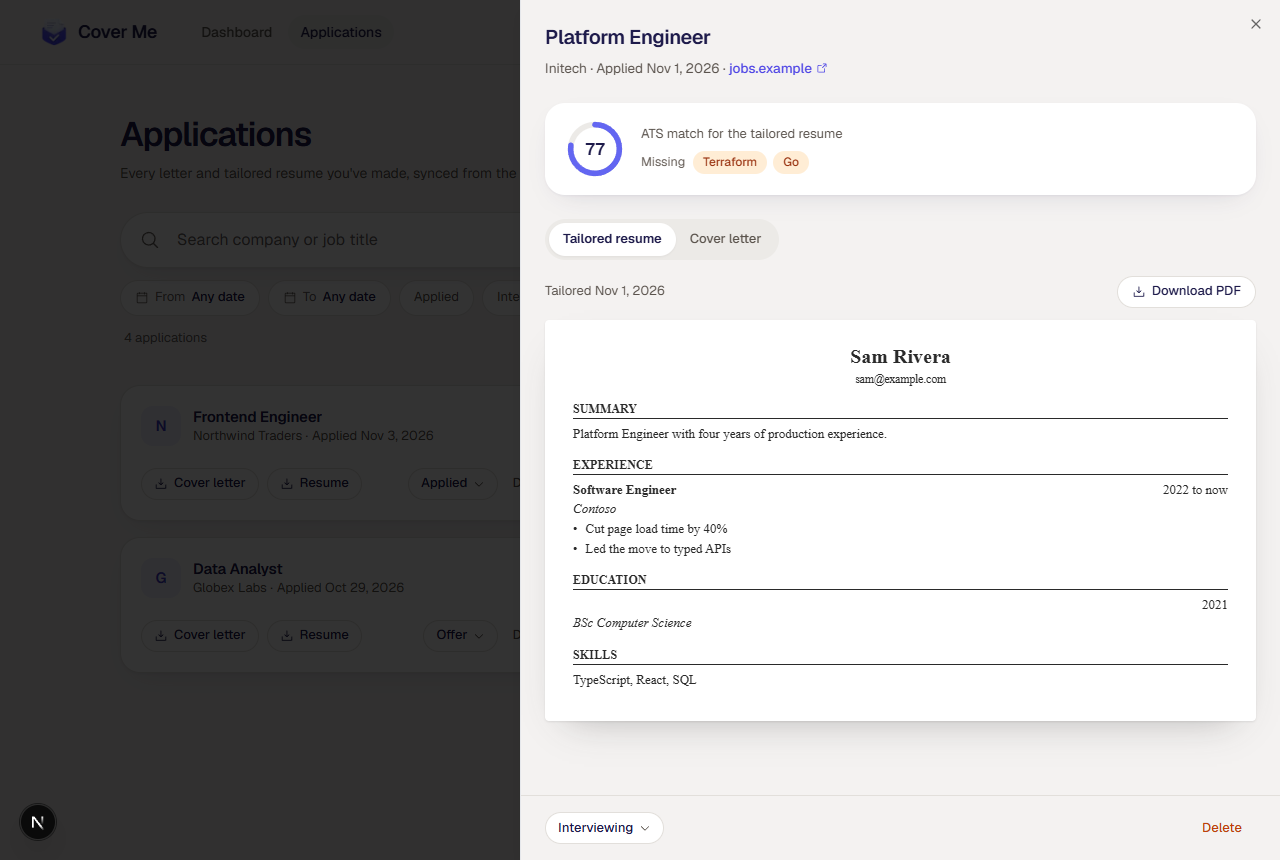
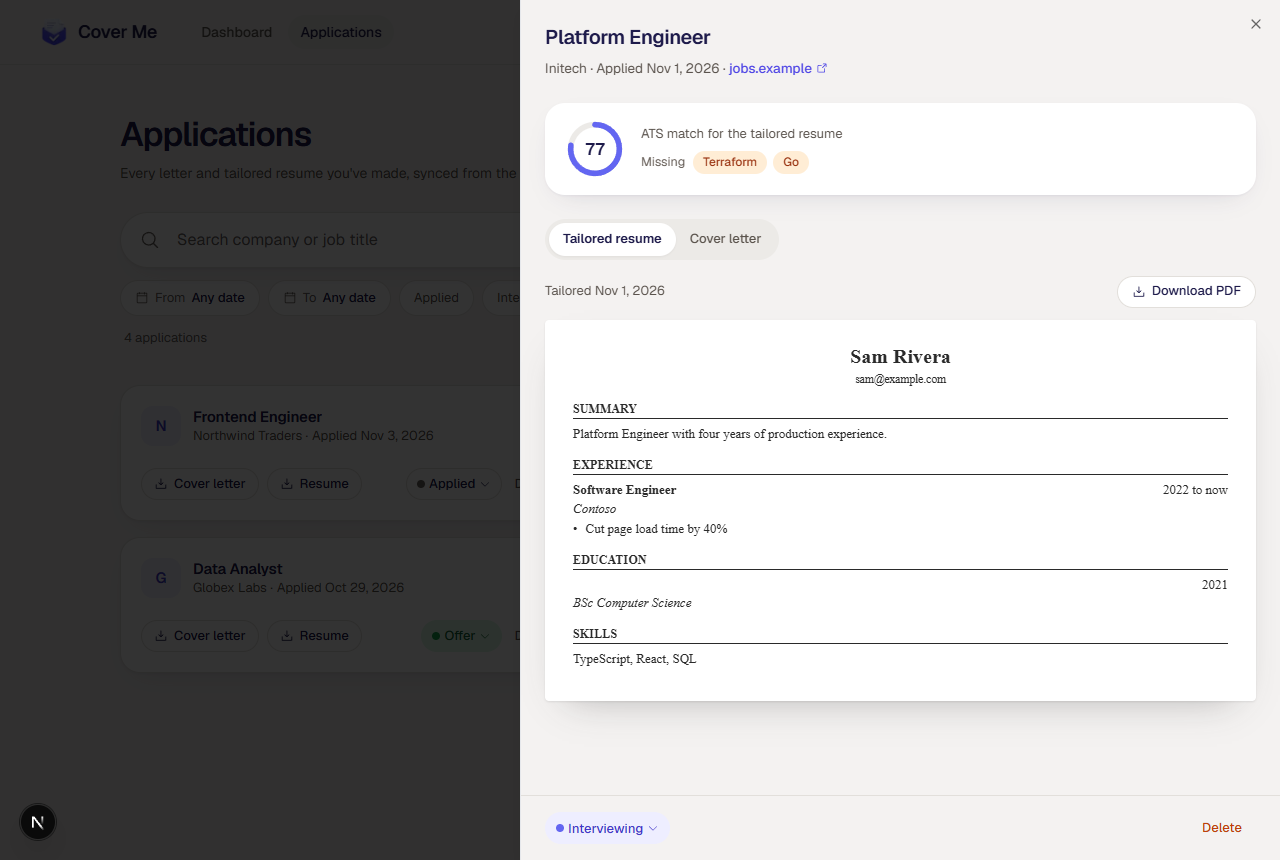
Stage pill gets a fill and dot per stage; filter chips scroll; pill labels sit centered (#99)
Each stage has its own pill: Applied white with a grey dot, Interviewing
indigo tint, Offer a new green tint, Closed sunken grey with a hollow dot,
so the stage no longer looks like the document chips beside it. Pill
spacing is tightened so "Interviewing" still fits on one row at 1280.

The filter chips stay on one line and scroll sideways on narrow screens.

Geist sits its capitals about 1px high in a centered control (13 rows
above, 15 below in a 36px chip). Labels in the page's pills take a
0.075em nudge (cap-center in globals.css); measured after: 14 and 14.

diff --git a/web/app/dashboard/applications/StageMenu.tsx b/web/app/dashboard/applications/StageMenu.tsx
@@ -6,6 +6,15 @@ import { DropdownMenu, DropdownMenuContent, DropdownMenuLabel, DropdownMenuRadio
 import { Spinner } from '@/components/ui/spinner'
 import { STAGE_LABEL, STAGES, type Stage } from '@/lib/applications'
 
+// Each stage's pill and dot, so a card's stage reads at a glance and doesn't
+// look like the document chips beside it. Closed is sunken, with a hollow dot.
+const STYLE: Record<Stage, { pill: string; dot: string }> = {
+  applied: { pill: 'border-line bg-surface text-ink', dot: 'bg-subtle' },
+  interviewing: { pill: 'border-transparent bg-brand-tint text-brand-ink hover:border-[color-mix(in_srgb,var(--brand-ink)_35%,transparent)]', dot: 'bg-brand' },
+  offer: { pill: 'border-transparent bg-offer-tint text-offer-ink hover:border-[color-mix(in_srgb,var(--offer-ink)_35%,transparent)]', dot: 'bg-offer' },
+  closed: { pill: 'border-transparent bg-panel text-ink-2 hover:border-line', dot: 'border border-subtle' },
+}
+
 // Where an application stands, and the menu that moves it. The card and the
 // details drawer both show one. The card's toast announces a change.
 export function StageMenu({ title, stage, onChange, busy, saving, align = 'end' }: {
@@ -19,14 +28,17 @@ export function StageMenu({ title, stage, onChange, busy, saving, align = 'end' 
   return (
     <DropdownMenu>
       <DropdownMenuTrigger asChild>
-        <Button variant="outline" size="sm" className="h-8 gap-1.5 rounded-full border-line bg-surface px-3 text-[13px] font-medium text-ink"
+        <Button
+          variant="outline"
+          size="sm"
+          className={`h-8 gap-1 rounded-full px-2.5 text-[13px] font-medium ${STYLE[stage].pill}`}
           // Not disabled during its own save: the closing menu puts focus back on
           // the trigger, and a disabled one can't take it. A pick then is ignored.
           disabled={busy && !saving}
         >
-          {saving && <Spinner className="size-3.5" />}
-          <span className="sr-only">Stage for {title}: </span>{STAGE_LABEL[stage]}
-          <CaretDownIcon size={12} className="text-ink-2" aria-hidden />
+          {saving ? <Spinner className="size-3.5" /> : <span aria-hidden className={`size-2 rounded-full ${STYLE[stage].dot}`} />}
+          <span className="cap-center"><span className="sr-only">Stage for {title}: </span>{STAGE_LABEL[stage]}</span>
+          <CaretDownIcon size={12} className="opacity-70" aria-hidden />
         </Button>
       </DropdownMenuTrigger>
       <DropdownMenuContent align={align}>

diff --git a/web/app/dashboard/applications/ApplicationsBrowser.tsx b/web/app/dashboard/applications/ApplicationsBrowser.tsx
@@ -158,10 +158,12 @@ export function ApplicationsBrowser() {
             className="h-14 rounded-full border-line bg-surface pl-14 pr-5 text-[16px] text-ink shadow-[0_1px_2px_rgba(30,27,75,0.05),0_10px_28px_-18px_rgba(30,27,75,0.25)] placeholder:text-subtle focus-visible:ring-brand"
           />
         </div>
-        <div className="flex flex-wrap items-center gap-2">
+        {/* One line that scrolls sideways on narrow screens, out to the screen's
+            edges; py-1 leaves room for the focus ring. */}
+        <div className="-mx-5 -my-1 flex items-center gap-2 overflow-x-auto px-5 py-1 [scrollbar-width:none] [&::-webkit-scrollbar]:hidden">
           <DateField id="app-from" label="From" value={from} onChange={setFrom} invalid={!range} describedBy={range ? undefined : 'app-range-error'} />
           <DateField id="app-to" label="To" value={to} onChange={setTo} invalid={!range} describedBy={range ? undefined : 'app-range-error'} />
-          <div role="group" aria-label="Filter by stage" className="flex flex-wrap items-center gap-2">
+          <div role="group" aria-label="Filter by stage" className="flex items-center gap-2">
             {STAGES.map((stage) => {
               const on = stages.includes(stage)
               return (
@@ -175,14 +177,14 @@ export function ApplicationsBrowser() {
                   className="h-9 gap-1.5 rounded-full border-line bg-surface px-3.5 text-[13px] font-normal text-ink-2 hover:bg-surface hover:text-ink data-[state=on]:border-[color-mix(in_srgb,var(--brand-strong)_40%,transparent)] data-[state=on]:bg-brand-tint data-[state=on]:font-medium data-[state=on]:text-brand-ink"
                 >
                   {on && <CheckIcon size={13} weight="bold" aria-hidden />}
-                  {STAGE_LABEL[stage]}
+                  <span className="cap-center">{STAGE_LABEL[stage]}</span>
                 </Toggle>
               )
             })}
           </div>
           {filtered && (
             <Button variant="ghost" size="sm" className="h-9 gap-1 rounded-full px-3 text-[13px] text-ink-2" onClick={clearFilters}>
-              <XIcon size={12} aria-hidden />Clear
+              <XIcon size={12} aria-hidden /><span className="cap-center">Clear</span>
             </Button>
           )}
         </div>

diff --git a/web/app/dashboard/applications/ApplicationCard.tsx b/web/app/dashboard/applications/ApplicationCard.tsx
@@ -161,19 +161,19 @@ export function ApplicationCard({ app: initial, onDeleted, onStageChange }: {
         {app.coverLetters.length > 0 && (
           <Button variant="outline" size="sm" className="h-8 gap-1.5 px-3 text-[13px] hover:border-brand-strong hover:text-brand-strong" onClick={() => download('letter')} disabled={busy !== null} aria-label="Download cover letter">
             {busy === 'letter' ? <Spinner className="size-3.5" /> : <DownloadSimpleIcon size={14} aria-hidden />}
-            Cover letter
+            <span className="cap-center">Cover letter</span>
           </Button>
         )}
         {app.tailoredResumes.length > 0 && (
           <Button variant="outline" size="sm" className="h-8 gap-1.5 px-3 text-[13px] hover:border-brand-strong hover:text-brand-strong" onClick={() => download('resume')} disabled={busy !== null} aria-label="Download resume">
             {busy === 'resume' ? <Spinner className="size-3.5" /> : <DownloadSimpleIcon size={14} aria-hidden />}
-            Resume
+            <span className="cap-center">Resume</span>
           </Button>
         )}
         <div className="ml-auto flex items-center gap-1">
           <StageMenu title={title} stage={app.stage} onChange={changeStage} busy={busy !== null} saving={busy === 'stage'} />
-          <Button variant="ghost" size="sm" className="h-8 gap-1 px-2.5 text-[13px] text-ink-2 hover:text-ink" onClick={() => setDetailsOpen(true)}>
-            <span className="max-sm:sr-only">Details</span> <CaretRightIcon size={12} aria-hidden />
+          <Button variant="ghost" size="sm" className="h-8 gap-1 px-2 text-[13px] text-ink-2 hover:text-ink" onClick={() => setDetailsOpen(true)}>
+            <span className="cap-center max-sm:sr-only">Details</span> <CaretRightIcon size={12} aria-hidden />
           </Button>
           <DropdownMenu>
             <DropdownMenuTrigger asChild>

diff --git a/web/app/globals.css b/web/app/globals.css
@@ -25,6 +25,9 @@
   --gap:          #F97316; /* missing keywords */
   --gap-tint:     #FFEDD5;
   --gap-ink:      #9A3412;
+  --offer:        #16A34A; /* the Offer stage's dot */
+  --offer-tint:   #DCFCE7;
+  --offer-ink:    #166534; /* text on offer-tint */
   --night:        #15132B; /* dark bands, footer */
   --night-2:      #1F1C3D;
   --on-night:     #F5F3F2;
@@ -127,6 +130,13 @@ img, svg, video { display: block; }
 }
 
 /* In the components layer so Tailwind utilities can override them. */
+@layer utilities {
+  /* Geist sits its capitals about 1px high in a centered control (measured at
+     13px: 13 rows above, 15 below in a 36px chip). Labels inside pills take
+     this to sit on the middle; icons are already centered. */
+  .cap-center { position: relative; top: 0.075em; }
+}
+
 @layer components {
   /* White rounded card on the paper background. */
   .soft-card {

diff --git a/web/app/dashboard/applications/DateField.tsx b/web/app/dashboard/applications/DateField.tsx
@@ -34,8 +34,8 @@ export function DateField({ id, label, value, onChange, invalid, describedBy }: 
           aria-label={`${label}: ${shown}`}
         >
           <CalendarBlankIcon size={14} className={date ? 'text-brand-ink' : 'text-subtle'} aria-hidden />
-          <span className={date ? 'text-brand-ink' : 'text-subtle'}>{label}</span>
-          <span className={cn('font-medium', date ? 'text-brand-ink' : 'text-ink')}>{shown}</span>
+          <span className={cn('cap-center', date ? 'text-brand-ink' : 'text-subtle')}>{label}</span>
+          <span className={cn('cap-center font-medium', date ? 'text-brand-ink' : 'text-ink')}>{shown}</span>
         </Button>
       </PopoverTrigger>
       <PopoverContent className="w-auto p-0" align="start">

diff --git a/web/tailwind.config.ts b/web/tailwind.config.ts
@@ -42,6 +42,7 @@ const config: Config = {
           glow:    'rgba(99,102,241,0.18)',
         },
         gap:    { DEFAULT: 'var(--gap)', tint: 'var(--gap-tint)', ink: 'var(--gap-ink)' },
+        offer:  { DEFAULT: 'var(--offer)', tint: 'var(--offer-tint)', ink: 'var(--offer-ink)' },
         night:  { DEFAULT: 'var(--night)', 2: 'var(--night-2)' },
         // The extension popup's dark UI, for product visuals only.
         ext: {

diff --git a/DESIGN.md b/DESIGN.md
@@ -17,6 +17,9 @@ colors:
   brand-ink: "#4338CA"
   gap-tint: "#FFEDD5"
   gap-ink: "#9A3412"
+  offer: "#16A34A"
+  offer-tint: "#DCFCE7"
+  offer-ink: "#166534"
   destructive: "hsl(17 88% 40%)"
 typography:
   headline:
@@ -244,7 +247,7 @@ Depth is one soft two-part shadow under white tiles on paper: a tight 1px contac
 
 ## Shapes
 
-Three radii. Every control is a pill (search, buttons, filter chips, document chips, badges, ATS and gap capsules). Every container is 20px (application tiles, the plan strip, drawer tiles, empty states, skeleton tiles). Company monograms are 40px squares at 12px. The avatar is the only circle, and it holds a picture or an initial, never a status.
+Three radii. Every control is a pill (search, buttons, filter chips, document chips, badges, ATS and gap capsules). Every container is 20px (application tiles, the plan strip, drawer tiles, empty states, skeleton tiles). Company monograms are 40px squares at 12px. The avatar is the only large circle, and it holds a picture or an initial, never a status. The stage pill's 8px dot is the one small one.
 
 Empty states are a 20px dashed hairline outline on paper with no fill, so they read as a place a tile will go.
 
@@ -257,7 +260,7 @@ Pill buttons from the shared shadcn `Button`. Primary is Cover Me Indigo with wh
 The tile's signature: an outline pill per document with a download icon ("Cover letter", "Resume"). The Resume chip carries the newest ATS score as a small Indigo Tint capsule at its end. Hover turns the border and text Cover Me Indigo. One click downloads the newest PDF.
 
 ### Filter chips
-36px white pills under the search: two date pickers ("From Any date", "To Any date") and one toggle per stage (Applied, Interviewing, Offer, Closed), any number on at once. Idle text is Warm Grey with a Caption Grey label. When set, the chip fills with Indigo Tint, a 40% indigo border and Indigo Ink text, and a toggle gains a check. A ghost "Clear" pill appears only while a filter is set. Date chips open the shadcn Calendar in a Popover.
+36px white pills under the search: two date pickers ("From Any date", "To Any date") and one toggle per stage (Applied, Interviewing, Offer, Closed), any number on at once. Idle text is Warm Grey with a Caption Grey label. When set, the chip fills with Indigo Tint, a 40% indigo border and Indigo Ink text, and a toggle gains a check. A ghost "Clear" pill appears only while a filter is set. Date chips open the shadcn Calendar in a Popover. The chips stay on one line; when they don't fit (phones) the line scrolls sideways out to the screen's edges, with no visible scrollbar. Labels in every pill carry `cap-center` (globals.css), a 0.075em nudge down, because Geist sits its capitals about 1px high in a centered control.
 
 ### Application tile
 White, 20px corners, 20px padding, tile shadow. Top row: the monogram (company initial on Indigo Tint), the job title as a button that opens the drawer, then company and applied date in Warm Grey, and a ghost ⋮ menu (view details, go to posting, delete). Bottom row: document chips on the left; the stage pill and "Details" on the right. On phones "Details" collapses to its caret.
@@ -269,7 +272,7 @@ A 56px white pill across the full column, 16px text, a 20px magnifier inset 20px
 One tile-styled row on home read left to right: Plan (Pro or Free badge), usage (label, big number "of" limit, 6px indigo bar, reset line), then the account action (outline "Manage billing" for Pro; the primary monthly upgrade and an outline quarterly button for Free). Free accounts get one plain sentence under the strip about what Pro adds.
 
 ### Badges
-Pills, 12px semibold. Pro is solid Cover Me Indigo with a small filled star. Free is Soft Panel with Warm Grey text. The stage pill is a menu button: white with a hairline, 13px medium Deep Ink text and a small caret, opening a radio list of the four stages.
+Pills, 12px semibold. Pro is solid Cover Me Indigo with a small filled star. Free is Soft Panel with Warm Grey text. The stage pill is a menu button: an 8px dot, 13px medium text and a small caret, opening a radio list of the four stages. Each stage has its own fill, so it doesn't read as one of the document chips beside it: Applied is white with a hairline and a Caption Grey dot; Interviewing is Indigo Tint with Indigo Ink text and a Signal Indigo dot; Offer is Offer Tint (`#DCFCE7`) with Offer Ink (`#166534`) text and a green dot (`#16A34A`); Closed is Soft Panel with Warm Grey text and a hollow dot.
 
 ### Details drawer
 A right sheet on Warm Paper. Header: job title (Title), then company, applied date and the posting host as an indigo link. Sections are headed in 13px semibold Warm Grey, sentence case, with a count when there is more than one ("Cover letters (2)"). Each letter is a borderless white tile with its date, the full text and Copy and Download pills. The resume section heading carries the "ATS 72" capsule, then a "Missing" row of gap chips, then one slim white tile per tailored resume. The sticky footer holds the stage pill and Delete (ghost, Rust) at the far right.
@@ -288,6 +291,6 @@ A right sheet on Warm Paper. Header: job title (Title), then company, applied da
 ### Don't:
 - **Don't** wrap tiles in a panel or bordered section, or nest a bordered card in a bordered card.
 - **Don't** use Signal Indigo (`brand`) for text; text uses Cover Me Indigo or Indigo Ink.
-- **Don't** use circular dots or bullets as status markers; status is a labeled pill (a stage, Pro, Free).
+- **Don't** use a dot alone as a status marker; status is a labeled pill (a stage, Pro, Free). A stage pill's dot sits beside its label, never in place of it.
 - **Don't** add uppercase, mono or tracked-out labels above headings in the app; a section is named by its own heading.
 - **Don't** use black or hard offset shadows; shadows are ink-tinted and soft.
